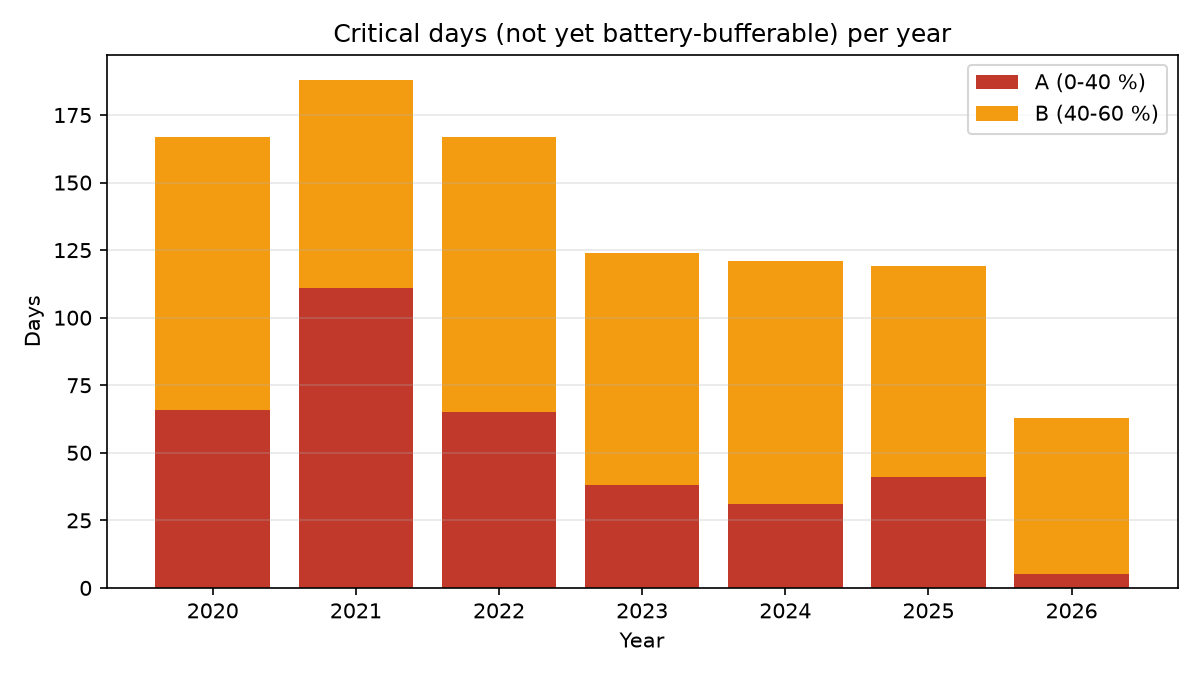
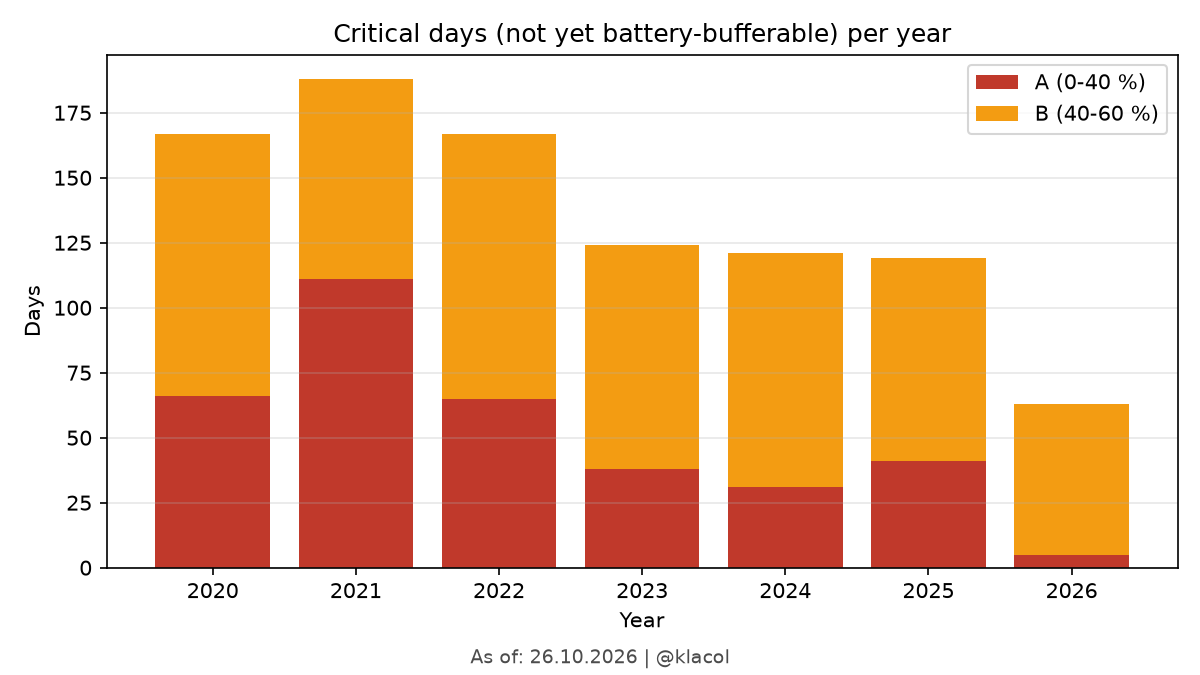
Charts

diff --git a/src/dunkelflauten/charts.py b/src/dunkelflauten/charts.py
@@ -10,6 +10,7 @@ from __future__ import annotations
 
 import argparse
 import csv
+from datetime import datetime
 from pathlib import Path
 
 import matplotlib
@@ -67,7 +68,19 @@ def _stacked_bar_chart(
     ax.set_xticks(years)
     ax.legend()
     ax.grid(axis="y", alpha=0.3)
-    fig.tight_layout()
+    
+    # Add creation date in German format (TT.MM.JJJJ) and attribution below the chart
+    creation_date = datetime.now().strftime("%d.%m.%Y")
+    fig.text(
+        0.5, 0.01,
+        f"As of: {creation_date} | @klacol",
+        ha="center",
+        va="bottom",
+        fontsize=9,
+        alpha=0.7
+    )
+    
+    fig.tight_layout(rect=[0, 0.03, 1, 1])
     path.parent.mkdir(parents=True, exist_ok=True)
     fig.savefig(path, dpi=150)
     plt.close(fig)
